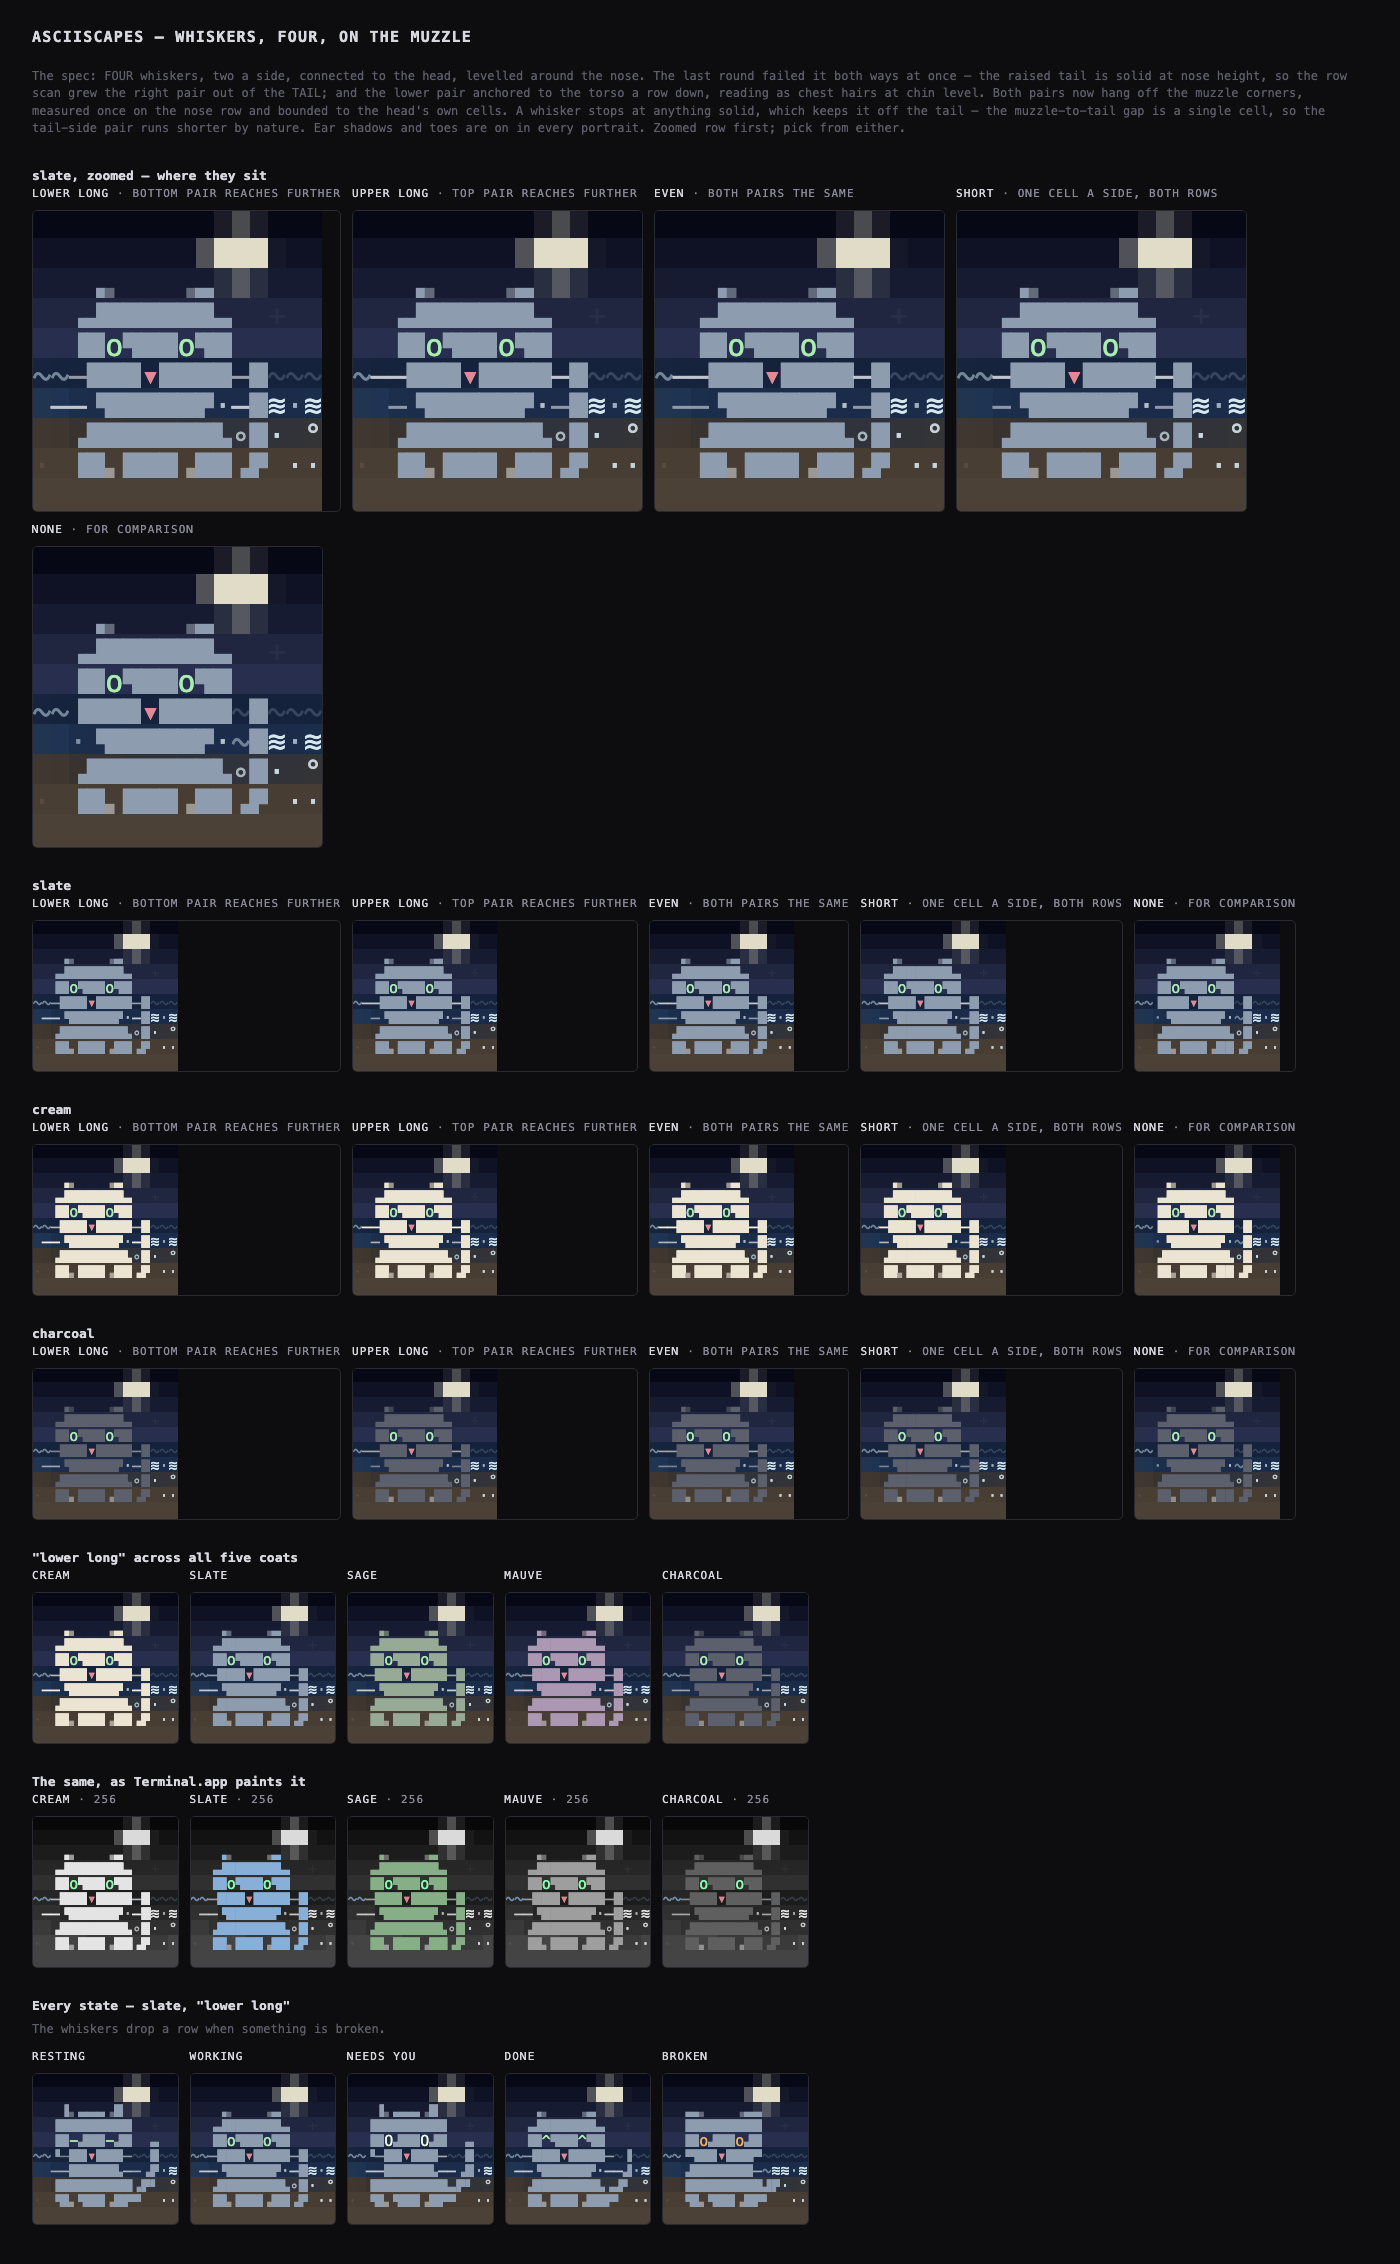
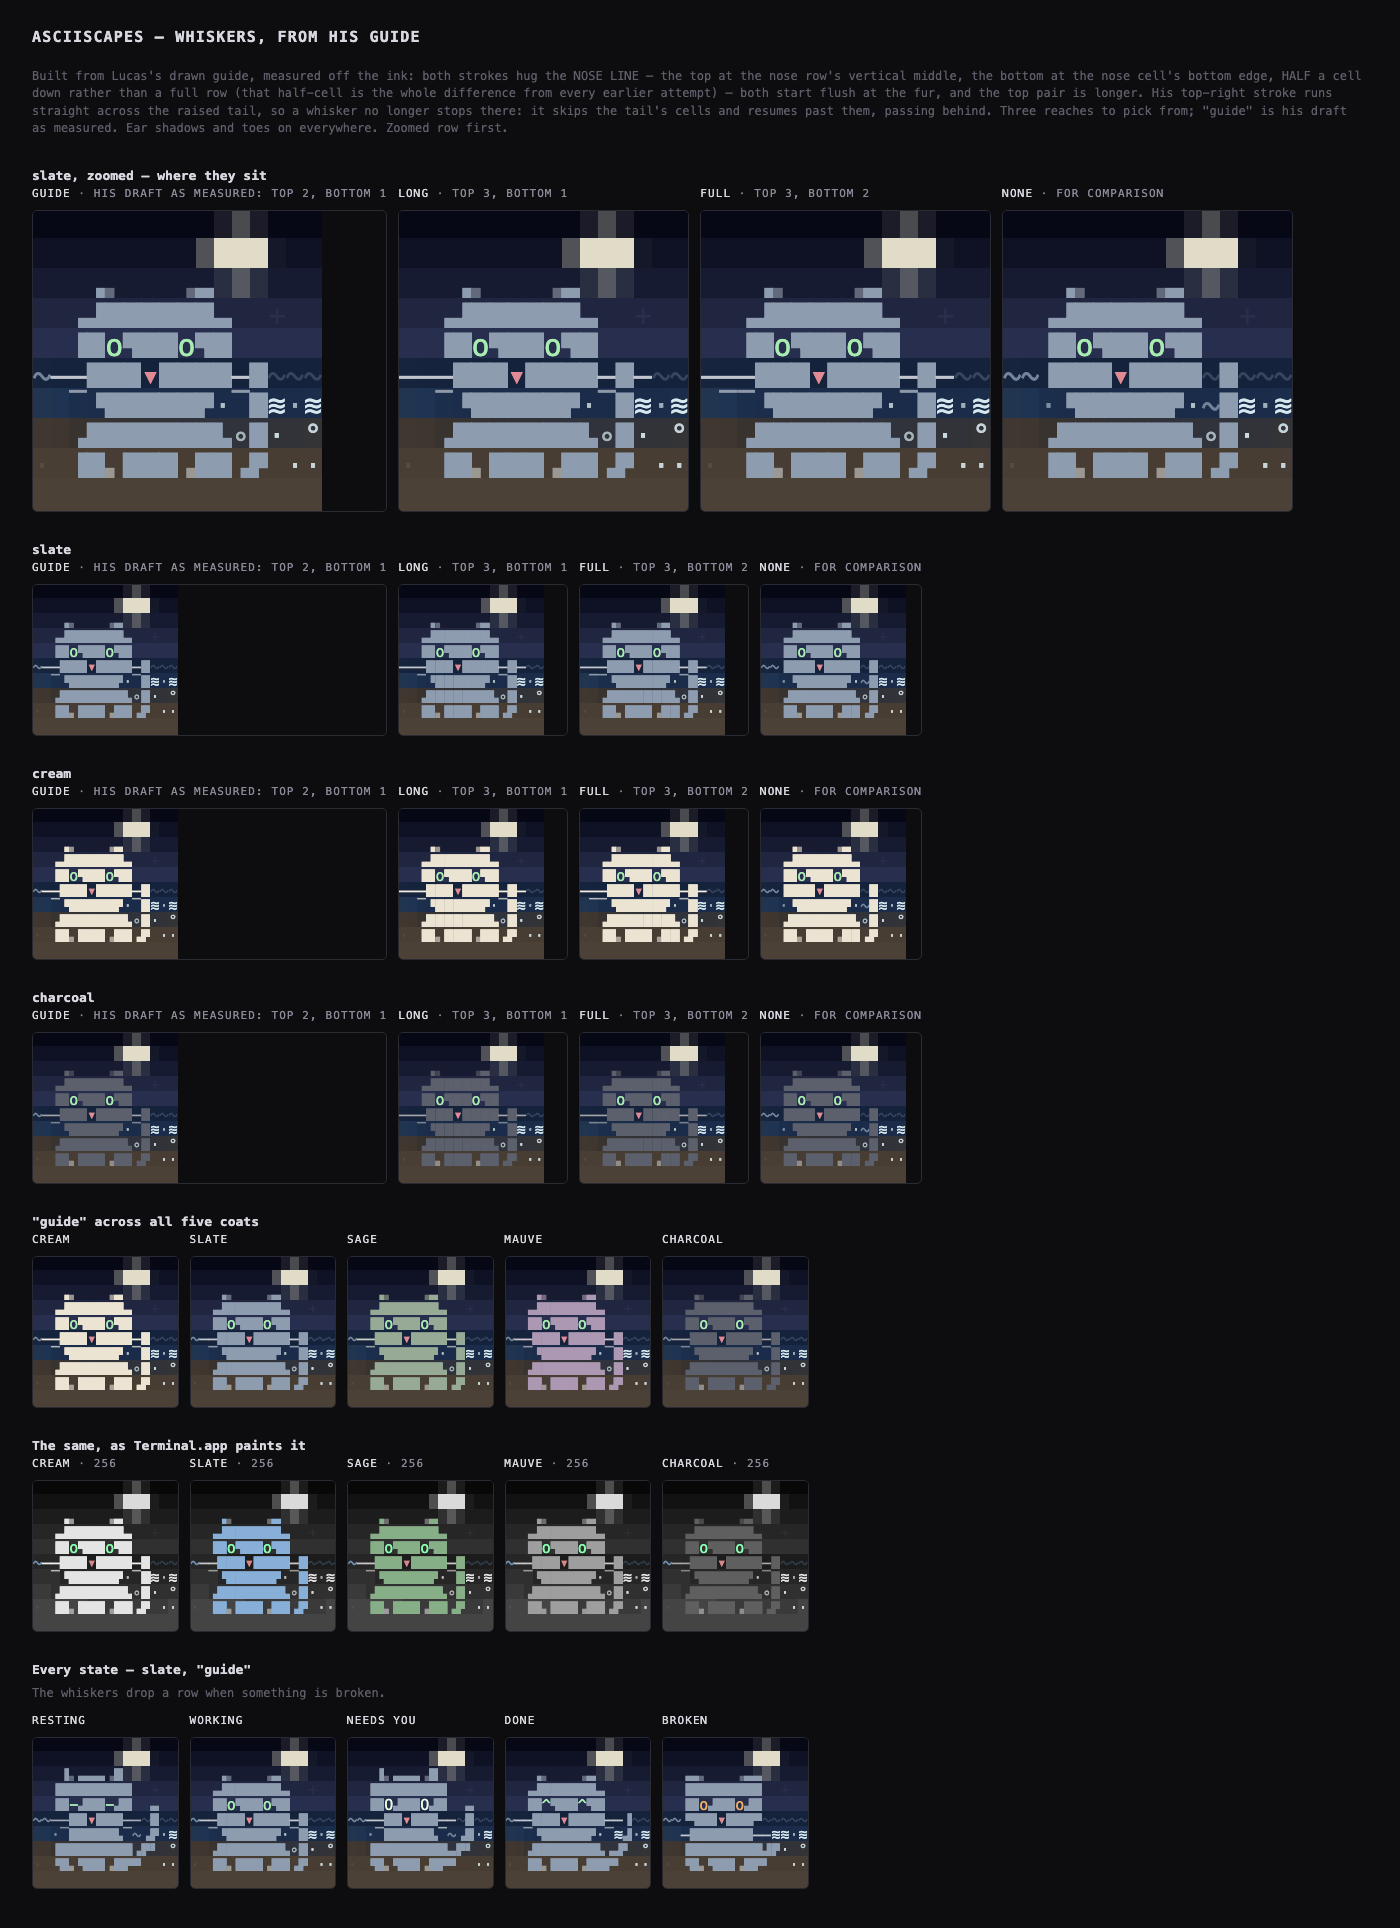
Whiskers from his drawn guide, measured off the ink
Lucas drew the answer in red on the NONE portrait. Measured in cells:
both strokes per side hug the NOSE LINE -- the top at the nose row's
vertical middle, exactly where a box-drawing dash renders, and the
bottom at the nose cell's BOTTOM EDGE, half a cell down, which is where
an overline on the row below renders. That half-cell spacing is the
whole difference from every earlier attempt, which put the lower pair a
full row down and read as chest hairs. Top pair ~2 cells, bottom ~1,
both flush at the fur; and his top-right stroke runs straight across
the raised tail, so a whisker now SKIPS solid cells and resumes past
them -- passing behind -- instead of stopping. Three reaches ship as the
variants to pick from: guide (2/1, his draft), long (3/1), full (3/2).
The four length-mix variants from earlier rounds are gone. Tests:
connection with gaps allowed, and a render-diff proving whiskers never
replace solid fur.

Claude-Session: https://claude.ai/code/session_01PsdMUTHxbXJ8hud6jedByL

diff --git a/internal/companion/face.go b/internal/companion/face.go
@@ -30,14 +30,15 @@ type WhiskerStyle int
 
 const (
 	NoWhiskers WhiskerStyle = iota
-	// WhiskerLowerLong: bottom pair longer than the top pair.
-	WhiskerLowerLong
-	// WhiskerUpperLong: top pair longer than the bottom pair.
-	WhiskerUpperLong
-	// WhiskerEven: both pairs the same length.
-	WhiskerEven
-	// WhiskerShort: one cell a side on each row.
-	WhiskerShort
+	// The styles below are all Lucas's drawn guide (2026-08-31): both strokes
+	// hug the nose line, attached at the fur, and the top pair is LONGER than
+	// the bottom. They differ only in reach.
+	// WhiskerGuide is his draft as measured: top 2 cells, bottom 1.
+	WhiskerGuide
+	// WhiskerLong: top 3, bottom 1.
+	WhiskerLong
+	// WhiskerFull: top 3, bottom 2.
+	WhiskerFull
 )
 
 // EarStyle is how the inside of the ear is treated. Every style below sits
@@ -96,10 +97,9 @@ var WhiskerStyles = []struct {
 	Name  string
 	Note  string
 }{
-	{WhiskerLowerLong, "lower long", "bottom pair reaches further"},
-	{WhiskerUpperLong, "upper long", "top pair reaches further"},
-	{WhiskerEven, "even", "both pairs the same"},
-	{WhiskerShort, "short", "one cell a side, both rows"},
+	{WhiskerGuide, "guide", "his draft as measured: top 2, bottom 1"},
+	{WhiskerLong, "long", "top 3, bottom 1"},
+	{WhiskerFull, "full", "top 3, bottom 2"},
 	{NoWhiskers, "none", "for comparison"},
 }
 
@@ -230,49 +230,41 @@ func (c *Cat) drawFace(l *canvas.Layer, x, y int, f Face, st State) {
 		l.Plot(at(4), y+3, '▾', noseCol, 1)
 	}
 
-	// Whiskers. The spec is locked (2026-08-31): exactly FOUR, two a side,
-	// connected to the HEAD, levelled around the nose.
+	// Whiskers, built to Lucas's drawn guide (2026-08-31, _FEEDBACK.md s7):
+	// four, two a side, both strokes HUGGING the nose line, attached at the
+	// fur, top pair longer than the bottom.
 	//
-	// The muzzle is measured ONCE, on the nose row, bounded to the head's own
-	// cells 0-8. The per-row unbounded scan this replaces failed his spec both
-	// ways at once: the tail is SOLID at nose height, so the right whiskers
-	// grew out of the tail; and the lower pair, anchored to the torso a row
-	// down, sat wider and lower than the head and read as chest hairs at chin
-	// level. Both pairs now hang off the muzzle corners.
+	// The geometry is measured off his ink, not eyeballed. His top stroke
+	// sits at the vertical middle of the nose row -- exactly where '─'
+	// renders -- and his bottom stroke at the nose cell's BOTTOM EDGE, half a
+	// cell down, which is where '‾' on the row BELOW renders. That half-cell
+	// spacing is the whole difference from every earlier attempt, which put
+	// the lower pair a full row down and read as chest hairs.
 	//
-	// A whisker grows outward cell by cell and stops at anything solid, which
-	// is what keeps it off the tail: the gap between muzzle and raised tail is
-	// a single cell, so the tail-side pair simply runs shorter. It may paint
-	// over a non-solid cell -- the head's own half-filled edge is one, and
-	// skipping it would hang half a cell of daylight between fur and whisker
-	// (the head is not centred in its sprite).
+	// His top-right stroke runs straight across the raised tail, so a whisker
+	// does not stop at the tail: it SKIPS solid cells and resumes past them,
+	// which at one glyph per cell is how "passing behind" is drawn. It still
+	// paints over non-solid cells -- the head's own half-filled edge is one,
+	// and skipping it would hang daylight between fur and whisker.
 	//
-	// Row y+3 is the row the nose sits on and y+4 is just under it. The eyes
-	// at y+2 are deliberately never used.
+	// '‾' is Ambiguous-width like '─'; overlays already accept that exposure.
 	if f.Whiskers != NoWhiskers {
 		noseRow := y + 3
-		rows := [2]int{y + 3, y + 4}
+		drop := 0
 		if st == Worried {
-			rows = [2]int{y + 4, y + 5} // drooping
+			drop = 1 // drooping
 		}
 		near, far := 1.0, 0.7
 		if st == Resting {
 			near, far = 0.8, 0.5
 		}
 
-		// lengths[i] is how many cells the whiskers on rows[i] reach for.
-		var lengths [2]int
-		alphas := [2]float64{near, far}
+		top, bottom := 2, 1
 		switch f.Whiskers {
-		case WhiskerLowerLong:
-			lengths = [2]int{1, 2}
-			alphas = [2]float64{far, near}
-		case WhiskerUpperLong:
-			lengths = [2]int{2, 1}
-		case WhiskerEven:
-			lengths = [2]int{2, 2}
-		case WhiskerShort:
-			lengths = [2]int{1, 1}
+		case WhiskerLong:
+			top = 3
+		case WhiskerFull:
+			top, bottom = 3, 2
 		}
 
 		from, to := at(0), at(8)
@@ -282,19 +274,23 @@ func (c *Cat) drawFace(l *canvas.Layer, x, y int, f Face, st State) {
 		if lo, hi, ok := furSpan(l, noseRow, from, to); ok {
 			solid := func(cx, row int) bool {
 				if cx < 0 || cx >= l.W || row < 0 || row >= l.H {
-					return true // the frame edge stops a whisker like fur does
+					return true
 				}
 				c := l.Cells[row*l.W+cx]
 				return c.Set && c.R == '█'
 			}
-			for i, row := range rows {
-				for n := 1; n <= lengths[i] && !solid(lo-n, row); n++ {
-					l.Plot(lo-n, row, '─', light, alphas[i])
-				}
-				for n := 1; n <= lengths[i] && !solid(hi+n, row); n++ {
-					l.Plot(hi+n, row, '─', light, alphas[i])
+			stroke := func(row int, r rune, length int, a float64) {
+				for n := 1; n <= length; n++ {
+					if !solid(lo-n, row) {
+						l.Plot(lo-n, row, r, light, a)
+					}
+					if !solid(hi+n, row) {
+						l.Plot(hi+n, row, r, light, a)
+					}
 				}
 			}
+			stroke(noseRow+drop, '─', top, near)
+			stroke(noseRow+1+drop, '‾', bottom, far)
 		}
 	}
 

diff --git a/internal/companion/whisker_test.go b/internal/companion/whisker_test.go
@@ -18,8 +18,7 @@ func TestWhiskersTouchTheFur(t *testing.T) {
 		s WhiskerStyle
 		n string
 	}{
-		{WhiskerLowerLong, "lower long"}, {WhiskerUpperLong, "upper long"},
-		{WhiskerEven, "even"}, {WhiskerShort, "short"},
+		{WhiskerGuide, "guide"}, {WhiskerLong, "long"}, {WhiskerFull, "full"},
 	}
 	for _, mirror := range []bool{false, true} {
 		for _, st := range []State{Resting, Working, NeedsYou, Worried} {
@@ -35,7 +34,7 @@ func TestWhiskersTouchTheFur(t *testing.T) {
 				for y := 0; y < l.H; y++ {
 					for x := 0; x < l.W; x++ {
 						cell := l.Cells[y*l.W+x]
-						if !cell.Set || cell.R != '─' {
+						if !cell.Set || !isWhiskerRune(cell.R) {
 							continue
 						}
 						found++
@@ -55,17 +54,20 @@ func TestWhiskersTouchTheFur(t *testing.T) {
 	}
 }
 
+func isWhiskerRune(r rune) bool { return r == '─' || r == '‾' }
+
 // touchesFur walks in direction d from x over the whisker run. The run is
 // connected if it ends against solid fur on its own row, or hangs off a fur
 // corner one row away -- the lower pair anchors to the muzzle ABOVE it, which
-// is a diagonal connection, not a horizontal one.
+// is a diagonal connection, not a horizontal one. A gap in the run is fine:
+// a whisker passing behind the tail skips the tail's cells.
 func touchesFur(l *canvas.Layer, x, y, d int) bool {
 	for cx := x + d; cx >= 0 && cx < l.W; cx += d {
 		cell := l.Cells[y*l.W+cx]
 		switch {
 		case cell.Set && cell.R == '█':
 			return true
-		case cell.Set && cell.R == '─':
+		case cell.Set && isWhiskerRune(cell.R):
 			continue // another whisker cell in the same run
 		default:
 			return furAt(l, cx, y-1) || furAt(l, cx, y+1)
@@ -82,32 +84,29 @@ func furAt(l *canvas.Layer, x, y int) bool {
 	return c.Set && c.R == '█'
 }
 
-// The spec is four whiskers, two a side, connected to the HEAD -- and the way
-// that failed before was the right pair growing out of the raised tail, which
-// is solid at nose height. The tail's columns are sprite cells 10 and beyond;
-// no whisker may reach them.
-func TestWhiskersNeverTouchTheTail(t *testing.T) {
-	const x, w = 3, 12
+// A whisker passes BEHIND the tail -- it must never replace a solid fur cell.
+// Render the same cat with and without whiskers: every cell the whiskers
+// changed has to have been non-solid before.
+func TestWhiskersDisplaceNoFur(t *testing.T) {
 	for _, mirror := range []bool{false, true} {
-		for _, st := range []State{Resting, Working, NeedsYou, Worried} {
-			c := canvas.New(20, 10, canvas.AlphaFar, canvas.AlphaMid, canvas.AlphaNear)
-			cat := NewCat()
-			cat.FaceLeft(mirror)
-			cat.SetFace(Face{Nose: true, Toes: true, Whiskers: WhiskerEven, Ears: EarInnerDark})
-			cat.Draw(c.Near(), x, 1, 3.1, st)
-
-			l := c.Near()
-			for y := 0; y < l.H; y++ {
-				for cx := 0; cx < l.W; cx++ {
-					if cell := l.Cells[y*l.W+cx]; !cell.Set || cell.R != '─' {
+		for _, st := range []State{Resting, Working, NeedsYou, Worried, Done} {
+			for _, style := range []WhiskerStyle{WhiskerGuide, WhiskerLong, WhiskerFull} {
+				render := func(w WhiskerStyle) *canvas.Layer {
+					c := canvas.New(20, 10, canvas.AlphaFar, canvas.AlphaMid, canvas.AlphaNear)
+					cat := NewCat()
+					cat.FaceLeft(mirror)
+					cat.SetFace(Face{Nose: true, Toes: true, Whiskers: w, Ears: EarInnerDark})
+					cat.Draw(c.Near(), 3, 1, 3.1, st)
+					return c.Near()
+				}
+				base, with := render(NoWhiskers), render(style)
+				for i := range with.Cells {
+					if with.Cells[i] == base.Cells[i] {
 						continue
 					}
-					sx := cx - x
-					if mirror {
-						sx = (w - 1) - sx
-					}
-					if sx >= 10 {
-						t.Errorf("mirror=%v state=%v: whisker at (%d,%d) is in the tail's columns", mirror, st, cx, y)
+					if base.Cells[i].Set && base.Cells[i].R == '█' {
+						t.Errorf("mirror=%v state=%v style=%v: whisker replaced solid fur at cell %d",
+							mirror, st, style, i)
 					}
 				}
 			}
@@ -119,14 +118,14 @@ func TestWhiskersNeverTouchTheTail(t *testing.T) {
 func TestWhiskersStayOffTheEyeRow(t *testing.T) {
 	c := canvas.New(20, 10, canvas.AlphaFar, canvas.AlphaMid, canvas.AlphaNear)
 	cat := NewCat()
-	cat.SetFace(Face{Nose: true, Whiskers: WhiskerLowerLong})
+	cat.SetFace(Face{Nose: true, Whiskers: WhiskerGuide})
 	const top = 1
 	cat.Draw(c.Near(), 3, top, 3.1, Working)
 
 	l := c.Near()
 	eyeRow := top + 2
 	for x := 0; x < l.W; x++ {
-		if cell := l.Cells[eyeRow*l.W+x]; cell.Set && cell.R == '─' {
+		if cell := l.Cells[eyeRow*l.W+x]; cell.Set && isWhiskerRune(cell.R) {
 			t.Errorf("a whisker landed on the eye row at x=%d", x)
 		}
 	}

diff --git a/faces.go b/faces.go
@@ -44,15 +44,15 @@ func facePage(seed int64) string {
 	   text-transform:uppercase;margin:14px 0 6px}
 	h2+p{margin-top:4px}
 	</style>`)
-	b.WriteString(`<h1>asciiscapes &mdash; whiskers, four, on the muzzle</h1>`)
-	b.WriteString(`<p class="nt">The spec: FOUR whiskers, two a side, connected to the head, ` +
-		`levelled around the nose. The last round failed it both ways at once &mdash; the raised tail ` +
-		`is solid at nose height, so the row scan grew the right pair out of the TAIL; and the lower ` +
-		`pair anchored to the torso a row down, reading as chest hairs at chin level. Both pairs now ` +
-		`hang off the muzzle corners, measured once on the nose row and bounded to the head's own ` +
-		`cells. A whisker stops at anything solid, which keeps it off the tail &mdash; the ` +
-		`muzzle-to-tail gap is a single cell, so the tail-side pair runs shorter by nature. ` +
-		`Ear shadows and toes are on in every portrait. Zoomed row first; pick from either.</p>`)
+	b.WriteString(`<h1>asciiscapes &mdash; whiskers, from his guide</h1>`)
+	b.WriteString(`<p class="nt">Built from Lucas's drawn guide, measured off the ink: both strokes ` +
+		`hug the NOSE LINE &mdash; the top at the nose row's vertical middle, the bottom at the nose ` +
+		`cell's bottom edge, HALF a cell down rather than a full row (that half-cell is the whole ` +
+		`difference from every earlier attempt) &mdash; both start flush at the fur, and the top pair ` +
+		`is longer. His top-right stroke runs straight across the raised tail, so a whisker no ` +
+		`longer stops there: it skips the tail's cells and resumes past them, passing behind. ` +
+		`Three reaches to pick from; "guide" is his draft as measured. Ear shadows and toes on ` +
+		`everywhere. Zoomed row first.</p>`)
 
 	cell := func(label, note, body string) {
 		fmt.Fprintf(&b, `<div class="col"><div class="lbl"><b>%s</b>%s</div><div class="win">%s</div></div>`,
@@ -80,21 +80,21 @@ func facePage(seed int64) string {
 		b.WriteString(`</div>`)
 	}
 
-	b.WriteString(`<h2>"lower long" across all five coats</h2><div class="row">`)
+	b.WriteString(`<h2>"guide" across all five coats</h2><div class="row">`)
 	for _, coat := range companion.CoatOrder {
-		cell(coat, "", portrait(face(companion.WhiskerLowerLong, true), companion.Coats[coat],
+		cell(coat, "", portrait(face(companion.WhiskerGuide, true), companion.Coats[coat],
 			companion.Working, term.ProfileTrueColor, 3.1))
 	}
 	b.WriteString(`</div>`)
 
 	b.WriteString(`<h2>The same, as Terminal.app paints it</h2><div class="row">`)
 	for _, coat := range companion.CoatOrder {
-		cell(coat, " &middot; 256", portrait(face(companion.WhiskerLowerLong, true), companion.Coats[coat],
+		cell(coat, " &middot; 256", portrait(face(companion.WhiskerGuide, true), companion.Coats[coat],
 			companion.Working, term.Profile256, 3.1))
 	}
 	b.WriteString(`</div>`)
 
-	b.WriteString(`<h2>Every state &mdash; slate, "lower long"</h2>`)
+	b.WriteString(`<h2>Every state &mdash; slate, "guide"</h2>`)
 	b.WriteString(`<p class="nt">The whiskers drop a row when something is broken.</p><div class="row">`)
 	for _, st := range []struct {
 		s companion.State
@@ -102,7 +102,7 @@ func facePage(seed int64) string {
 	}{{companion.Resting, "resting"}, {companion.Working, "working"},
 		{companion.NeedsYou, "needs you"}, {companion.Done, "done"},
 		{companion.Worried, "broken"}} {
-		cell(st.n, "", portrait(face(companion.WhiskerLowerLong, true), companion.Coats["slate"],
+		cell(st.n, "", portrait(face(companion.WhiskerGuide, true), companion.Coats["slate"],
 			st.s, term.ProfileTrueColor, 3.1))
 	}
 	b.WriteString(`</div>`)

diff --git a/_FEEDBACK.md b/_FEEDBACK.md
@@ -186,3 +186,14 @@ Never paraphrase. Read the relevant section before editing anything it covers.
     on the nose line. Right-side whiskers must not touch/read as the tail. Ear shadows and
     toes are LOVED (not yet locked as included). Order of decisions: whiskers first, then
     which of the 3 details ship together.
+
+- *"none of your whiskers hit the mark. Here is a very rough draft I made, where I drew the
+  whiskers in red (for you to see them). You see how they are attached to the body around the
+  nose level, and the top are longer than the bottom? re generate a couple versions based on
+  this guide"* (+ a marked-up screenshot of the NONE portrait)
+  ⇒ HE DREW THE ANSWER. Measured off his ink, in cells: both strokes per side hug the NOSE
+    LINE (upper at the nose row's vertical middle, lower at the nose cell's BOTTOM EDGE --
+    half a cell down, not a full row); both start flush at the fur edge; top ~2 cells, bottom
+    ~1.3; and his top-right stroke runs STRAIGHT ACROSS the raised tail -- the whisker passes
+    the tail (drawn by skipping solid cells), it does not stop at it. The four length
+    variants from the previous rounds are all dead.
